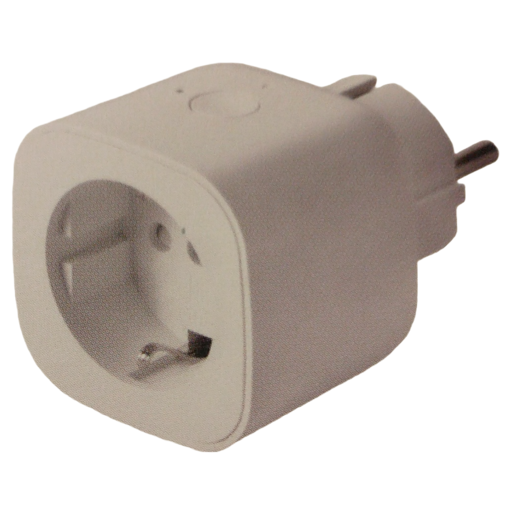
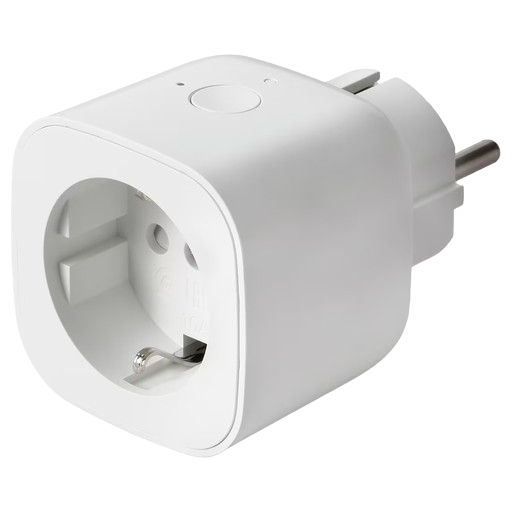
Update E2204.md (#2619)
* Update E2204.md

Added better quality photo

* Better image quality E2204

* Better image quality E2204

diff --git a/docs/devices/E2204.md b/docs/devices/E2204.md
@@ -23,7 +23,7 @@ pageClass: device-page
 
 
 <!-- Notes BEGIN: You can edit here. Add "## Notes" headline if not already present. -->
-
+Better quality photo: https://www.ikea.com/pl/pl/p/tretakt-wtyczka-smart-00556513/
 
 <!-- Notes END: Do not edit below this line -->
 
